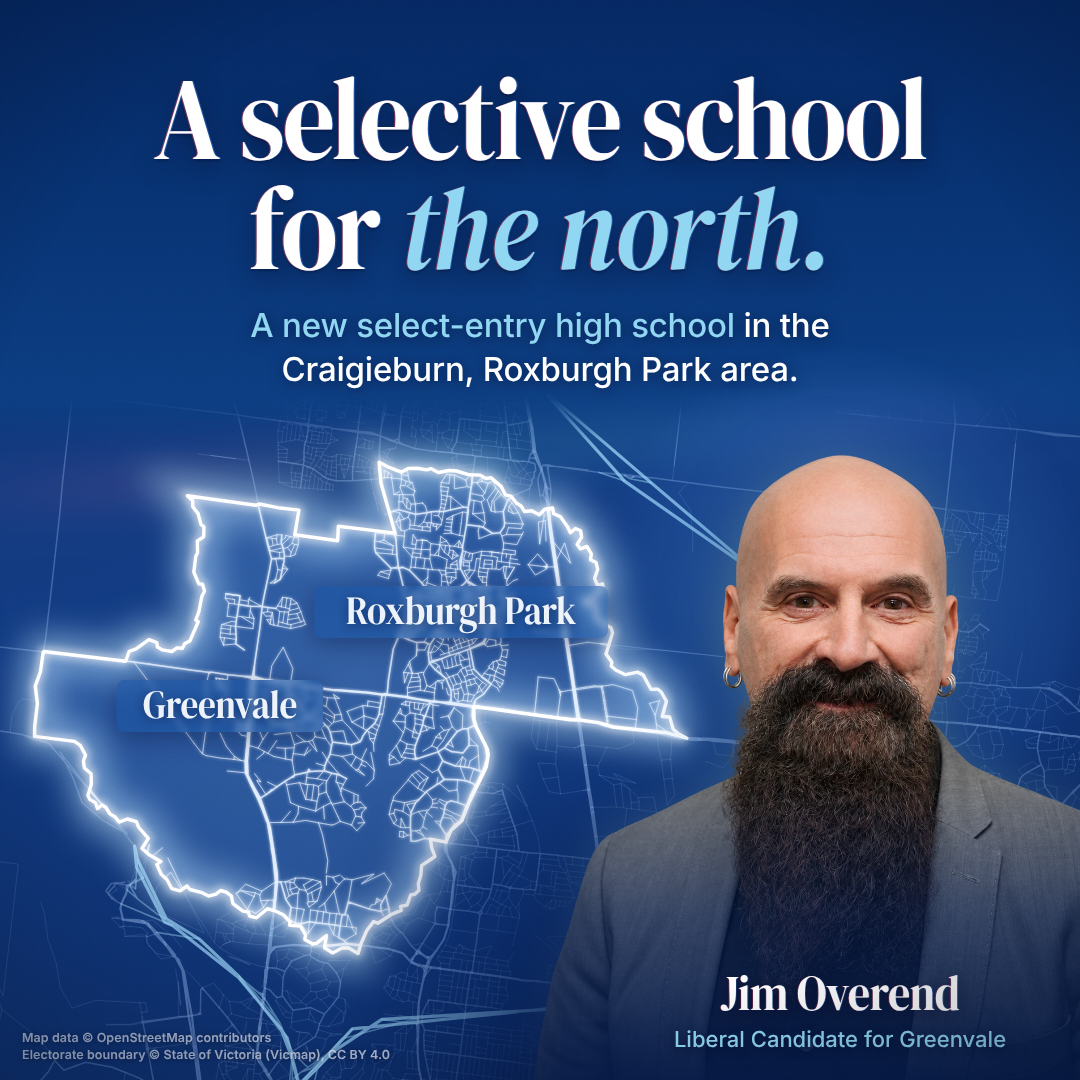
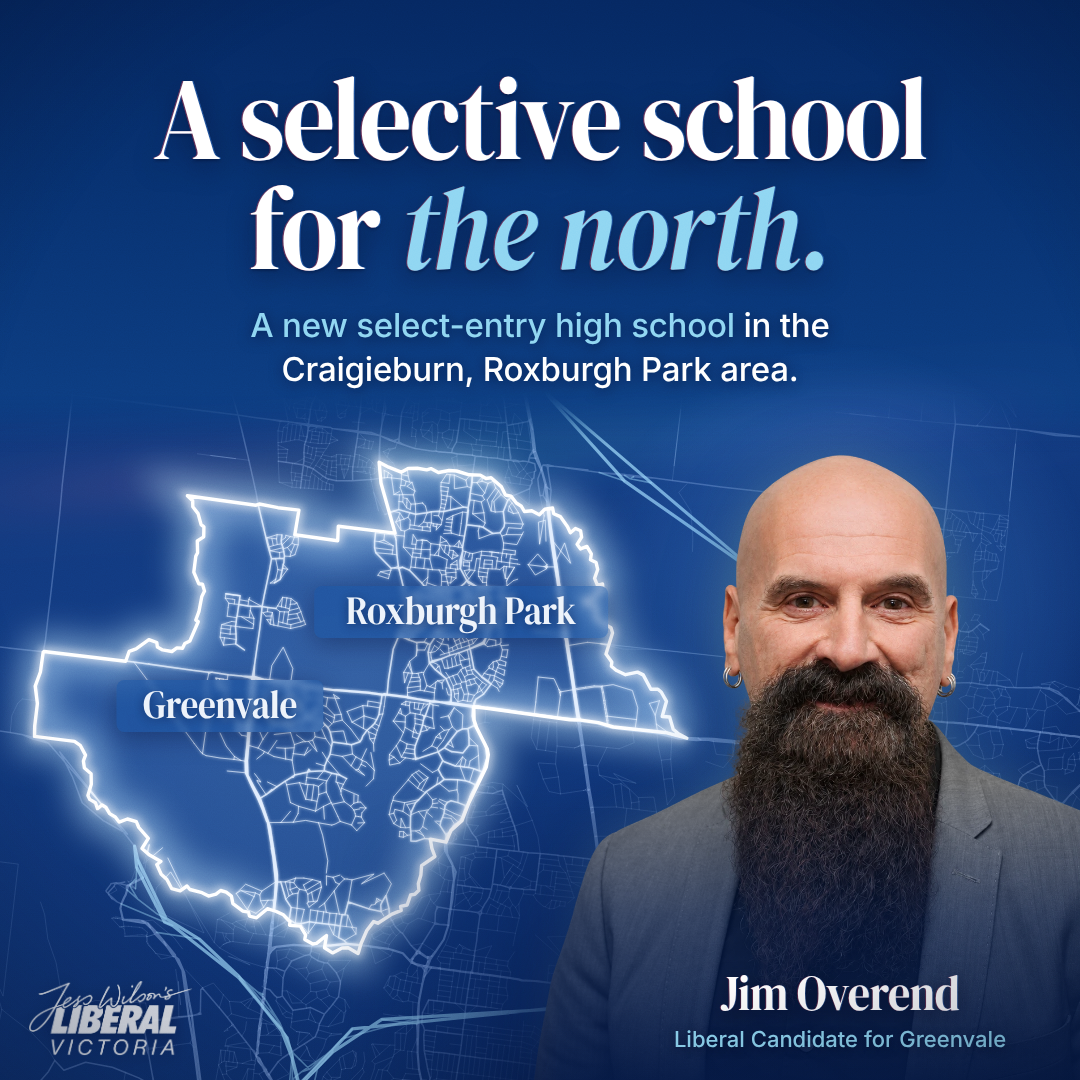
Replace on-tile credits with Liberal Victoria watermark
Remove the map data credits from the tile (they move to the post
caption; exact text in the README) and add the campaign-supplied
"Jess Wilson's Liberal Victoria" wordmark as a small bottom-left
watermark. Render check now fails only on fonts that error.

Claude-Session: https://claude.ai/code/session_01MT6wivusBEagFnhed7SAun

Changed region(s): [[0.0, 0.9167, 0.275, 0.9778]]

diff --git a/designs/select-entry-school-north/source/slide.html b/designs/select-entry-school-north/source/slide.html
@@ -49,7 +49,7 @@ h1 em{color:var(--sky);font-style:italic;letter-spacing:-0.01em}
 #caption .name{font-family:"Head";font-size:50px;line-height:1;color:#fff;letter-spacing:-0.01em;transform:scaleX(.88);
   text-shadow:-1px 0 0 rgba(255,70,90,.3),1px 0 0 rgba(70,150,255,.3),0 4px 18px rgba(0,8,35,.6)}
 #caption .role{margin-top:8px;font-family:"Inter";font-weight:500;font-size:22px;line-height:1.25;color:var(--sky);text-shadow:0 2px 10px rgba(0,8,35,.6)}
-#attr{left:22px;bottom:16px;text-align:left;font-family:"Inter";font-weight:600;color:rgba(235,242,255,.72);font-size:12.5px;line-height:1.35;letter-spacing:.005em;text-shadow:0 1px 6px rgba(0,8,35,.6)}
+#logo{left:28px;bottom:24px;opacity:.92;filter:drop-shadow(0 2px 8px rgba(0,8,35,.5))}
 </style></head>
 <body><div id="stage">
   <img id="map" class="abs" src="map.svg">
@@ -60,7 +60,7 @@ h1 em{color:var(--sky);font-style:italic;letter-spacing:-0.01em}
   <img id="jim" class="abs" src="jim.png" alt="Jim Overend">
   <div id="botfade" class="abs"></div>
   <div id="caption" class="abs"><div class="name"><span style="display:inline-block">Jim Overend</span></div><div class="role">Liberal Candidate for Greenvale</div></div>
-  <div id="attr" class="abs">Map data © OpenStreetMap contributors<br>Electorate boundary © State of Victoria (Vicmap), CC BY 4.0</div>
+  <img id="logo" class="abs" src="logo.png" alt="Jess Wilson's Liberal Victoria">
   <div id="vign" class="abs"></div>
   <h1 id="h"></h1>
   <p class="sub" id="s"></p>
@@ -78,6 +78,7 @@ const P = Object.assign({
   jim:[489,400,710],              // portrait: left, top, width (jim.png is 1254x1202)
   glow:[840,600,520],             // backlight: centre x, centre y, diameter
   caption:[840,968],              // name block: centre x, top
+  logoW:165,                      // watermark width (px)
   leakY:425, leakRot:-5, leakO:0.11   // faint rainbow light leak
 }, JSON.parse(decodeURIComponent(new URLSearchParams(location.search).get('p')||'{}')));
 // solid navy (with the subtle vertical lift seen in the refs) down to P.fade, then an eased dissolve over P.fadeLen
@@ -90,7 +91,8 @@ document.getElementById('tags').innerHTML=P.tags.map(([t,x,y,fs,minor,cap])=>
   `<div class="tag${minor?' minor':''}" style="left:${x}px;top:${y}px;font-size:${fs}px"><span>${t}</span>${cap?`<small>${cap}</small>`:''}</div>`).join('');
 const h=document.getElementById('h'); h.innerHTML=P.head; h.style.top=P.hTop+'px'; h.style.fontSize=P.hSize+'px';
 const s=document.getElementById('s'); s.innerHTML=P.sub; s.style.top=P.sTop+'px'; s.style.fontSize=P.sSize+'px';
-{ const j=document.getElementById('jim'); j.style.left=P.jim[0]+'px'; j.style.top=P.jim[1]+'px'; j.style.width=P.jim[2]+'px';
+{ document.getElementById('logo').style.width=P.logoW+'px';
+  const j=document.getElementById('jim'); j.style.left=P.jim[0]+'px'; j.style.top=P.jim[1]+'px'; j.style.width=P.jim[2]+'px';
   const g=document.getElementById('jimglow'); g.style.left=(P.glow[0]-P.glow[2]/2)+'px'; g.style.top=(P.glow[1]-P.glow[2]/2)+'px'; g.style.width=g.style.height=P.glow[2]+'px';
   const c=document.getElementById('caption'); c.style.left=P.caption[0]+'px'; c.style.top=P.caption[1]+'px'; }
 const L=document.getElementById('leak'); L.style.top=P.leakY+'px'; L.style.transform=`rotate(${P.leakRot}deg)`; L.style.setProperty('--leak-o',P.leakO||.16);

diff --git a/designs/select-entry-school-north/source/render.js b/designs/select-entry-school-north/source/render.js
@@ -16,7 +16,7 @@ const path = require('path');
     const page = await browser.newPage({ viewport: { width: 1080, height: 1080 }, deviceScaleFactor: scale });
     await page.goto(url);
     await page.evaluate(() => document.fonts.ready);
-    const missing = await page.evaluate(() => [...document.fonts].filter(f => f.status !== 'loaded').map(f => f.family));
+    const missing = await page.evaluate(() => [...document.fonts].filter(f => f.status === 'error').map(f => f.family));
     if (missing.length) throw new Error('fonts failed to load: ' + missing.join(', '));
     await page.waitForTimeout(150);
     const out = path.join(__dirname, '..', `select-entry-school-north${suffix}.png`);

diff --git a/designs/select-entry-school-north/README.md b/designs/select-entry-school-north/README.md
@@ -43,7 +43,9 @@ Data (fetched from public GitHub mirrors; not committed — too large):
 | Electorate boundary (highlight) | `assets/data/districts.geojson` in [dean8000/vic-votes-2026](https://github.com/dean8000/vic-votes-2026) — Vicmap Admin electoral districts, feature `GREENVALE` (created 2021-11-19); cross-checked against an independent copy in hayleypring2/victoria-land-doesnt-vote | CC BY 4.0 — © State of Victoria (Vicmap) |
 | Suburb boundaries (label placement only, not drawn) | `suburb-10-vic.geojson` in [tonywr71/GeoJson-Data](https://github.com/tonywr71/GeoJson-Data) | CC BY 4.0 — © Geoscape Australia |
 
-The OpenStreetMap and Vicmap credits are drawn bottom-left on the tile and must stay.
+The data credits are **not** on the tile — they go in the post caption. Both licences require them:
+
+> Map data © OpenStreetMap contributors. Electorate boundary © State of Victoria (Vicmap), CC BY 4.0.
 
 To rebuild or re-frame the map (`--mpp` = metres per pixel, `--center lon,lat` lands at `--anchor x,y`):
 
@@ -57,12 +59,15 @@ python source/map/build_map.py --roads networkCleaned.xml.gz --suburbs suburb-10
 The street network is a routing graph, so streets are drawn node-to-node: curves are slightly
 faceted up close, which is invisible at tile size.
 
-## Portrait
+## Portrait and watermark
 
 `source/jim.png` — campaign-supplied transparent cut-out of the candidate (solid areas normalised
 to full opacity so the map doesn't show through).
 
+`source/logo.png` — campaign-supplied white "Jess Wilson's Liberal Victoria" wordmark, cropped to its
+artwork; placed bottom-left as a small watermark (`logoW`, default 165px).
+
 ## Fonts
 
 DM Serif Display (headline and labels, condensed to 88% to match the brand serif) and Inter
-(subhead, credits), both SIL Open Font License — licence texts included in `source/`.
+(subhead, caption), both SIL Open Font License — licence texts included in `source/`.
